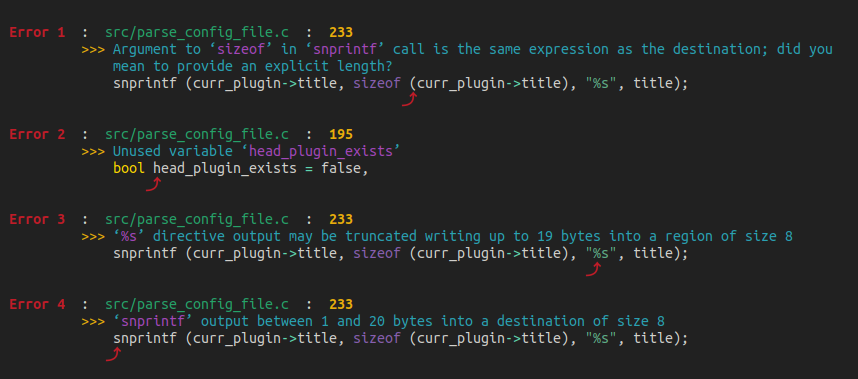
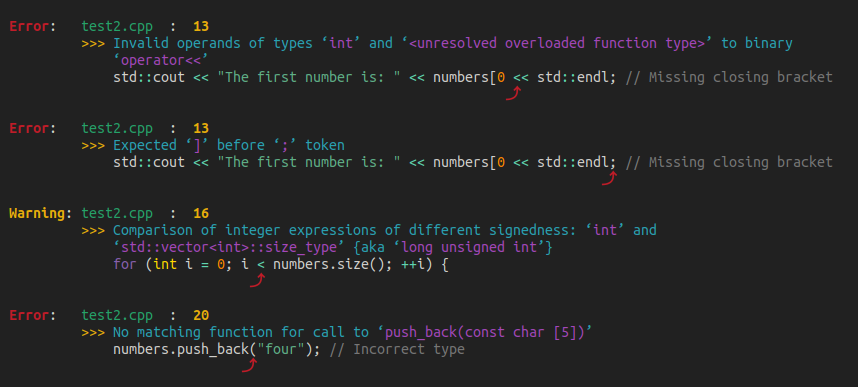
Added different error message titles

diff --git a/format_gcc_output.py b/format_gcc_output.py
@@ -15,7 +15,6 @@ from colors import *
 
 def format_gcc_output (command):
     
-    ERROR_COLOR     = BOLD_RED
     FILE_PATH_COLOR = GREEN
     LINE_NUM_COLOR  = B_MAX_YELLOW
     MSG_ARROW_COLOR = MAX_YELLOW
@@ -23,7 +22,9 @@ def format_gcc_output (command):
     MSG_STR_COLOR   = PURPLE
     CARET_COLOR     = BOLD_RED
 
-    err_num = 1
+    num = 0
+    err_num = 0
+    warn_num = 0
     code_indent = '              '
     msg_indent = '          '
     term_size = shutil.get_terminal_size()
@@ -63,7 +64,17 @@ def format_gcc_output (command):
                 caret_cols_list.append(caret.get('column'))
 
         # Error  :  <file path>  :  <line number>
-        error = f" {ERROR_COLOR}Error {err_num}{RESET}  :  {FILE_PATH_COLOR}{file_path}{RESET}  :  {LINE_NUM_COLOR}{line_number}{RESET}"
+        type_str = ''.join([c.upper() if i == 0 else c for i,c in enumerate(type_str)])
+        err_buff = ''
+        if type_str == 'Error':
+            ERROR_COLOR = BOLD_RED
+            err_buff = '  '
+        elif type_str == 'Warning':
+            ERROR_COLOR = B_MAX_YELLOW
+            err_buff = ''
+        else:
+            ERROR_COLOR = B_MAX_BLUE
+        error = f" {ERROR_COLOR}{type_str}{RESET}: {err_buff}{FILE_PATH_COLOR}{file_path}{RESET}  :  {LINE_NUM_COLOR}{line_number}{RESET}"
 
         # message
         prompt = ">>> "
@@ -116,10 +127,10 @@ def format_gcc_output (command):
 if __name__ == '__main__':
 
     # C
-    compile_command_1 = ['gcc', '-Wall', '-Wextra', '-Werror', '-fdiagnostics-format=json', '-o', 'test1', 'test1.c']
+    compile_command_1 = ['gcc', '-Wall', '-Wextra', '-fdiagnostics-format=json', '-o', 'test1', 'test1.c']
 
     # C++
-    compile_command_2 = ['g++', '-Wall', '-Wextra', '-Werror', '-fdiagnostics-format=json', '-o', 'test2', 'test2.cpp']
+    compile_command_2 = ['g++', '-Wall', '-Wextra', '-fdiagnostics-format=json', '-o', 'test2', 'test2.cpp']
 
     format_gcc_output (compile_command_1)
     format_gcc_output (compile_command_2)
